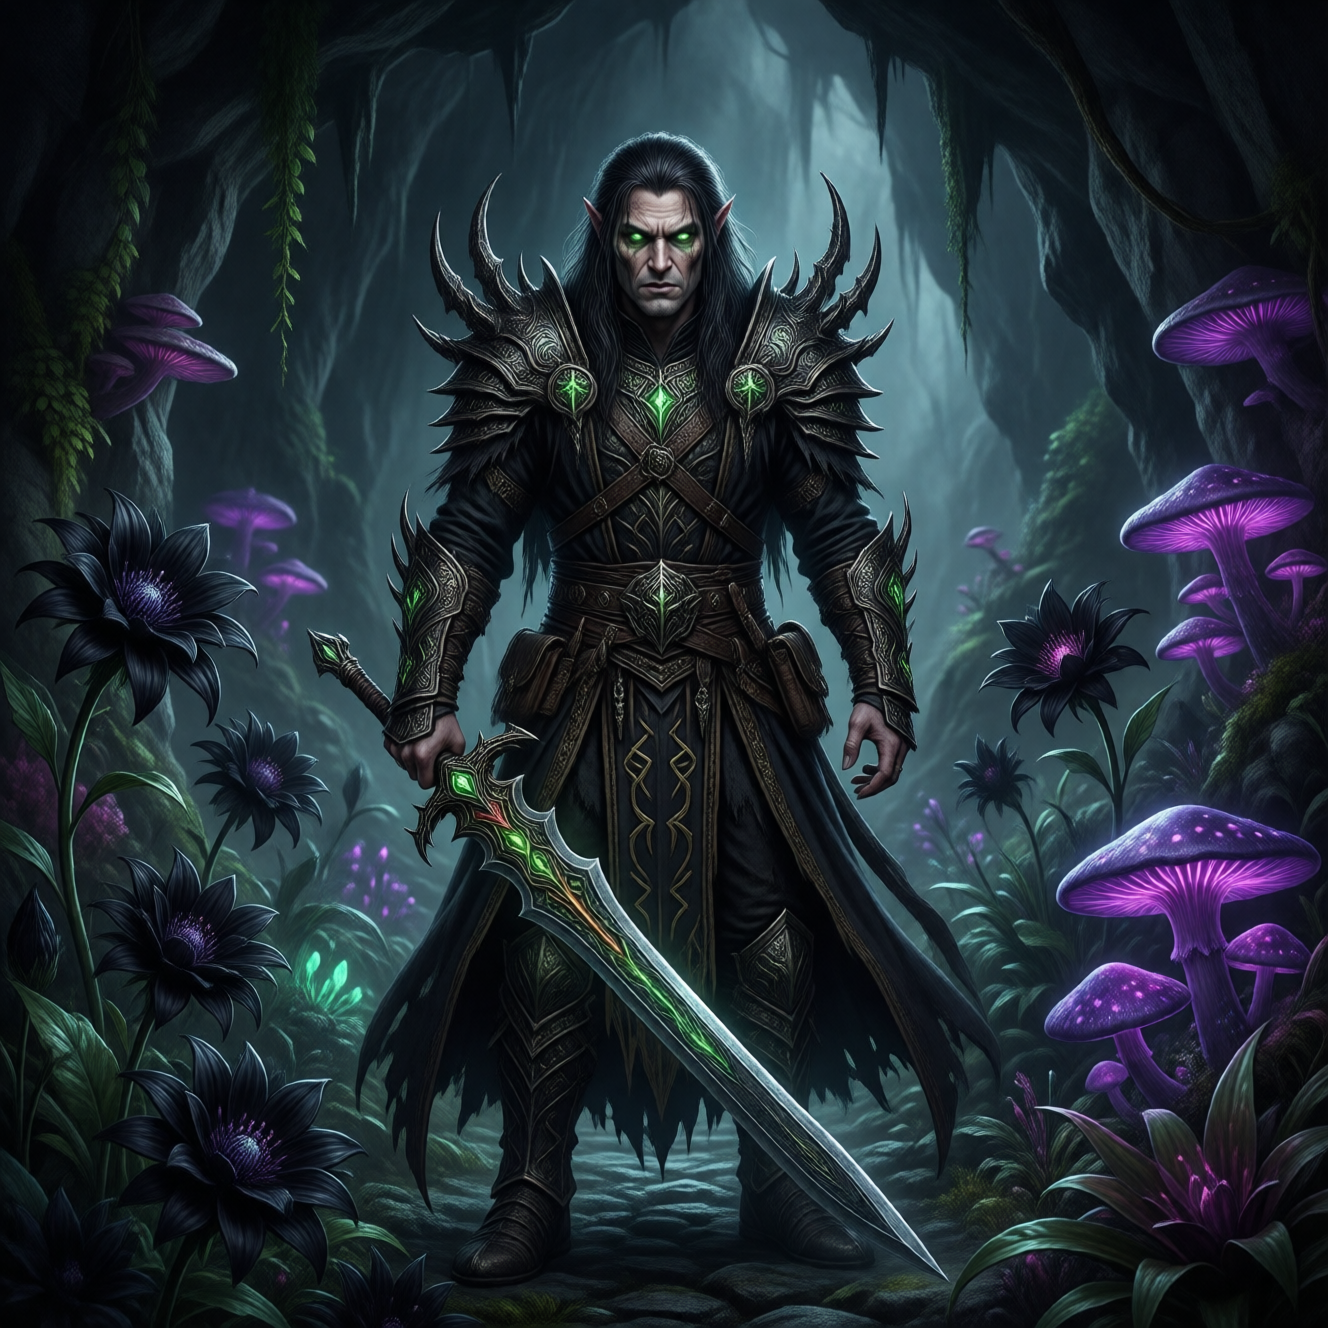
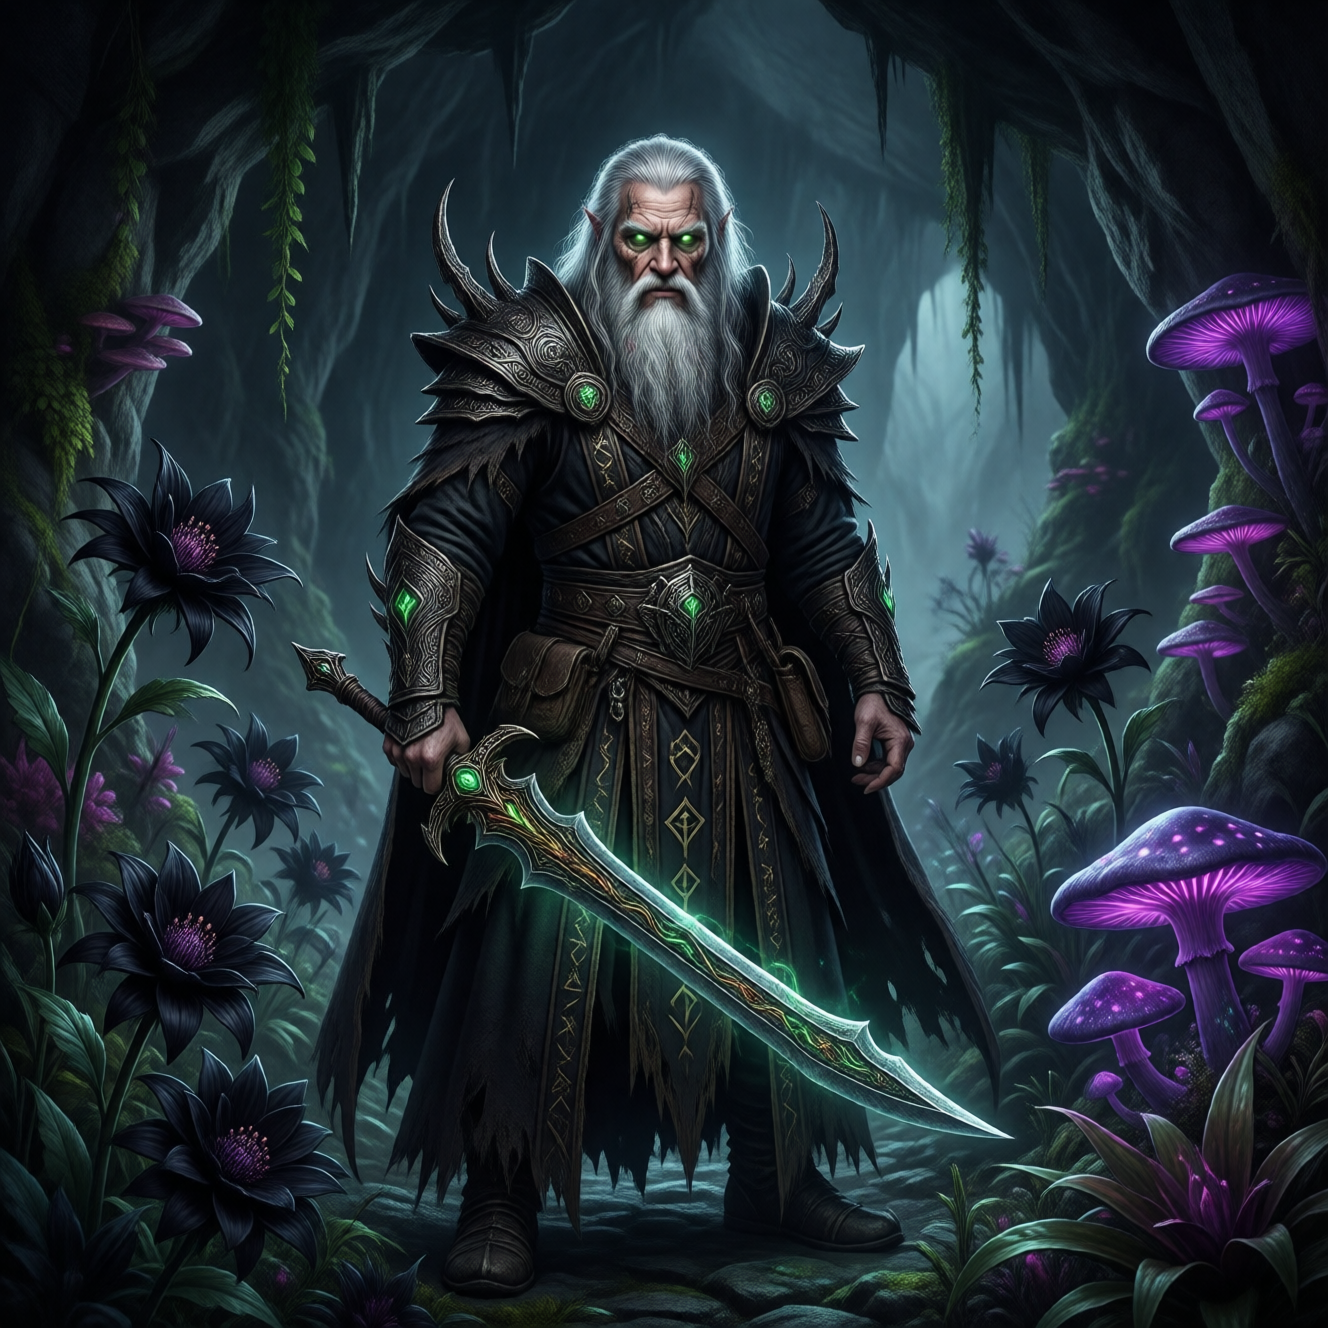
Bêta 2J x3 scénarios : remises PNJ (inventaire), entrées de donjon reformulées (bienvenus dans / 1re pluriel, hôtel/mansarde), init plan à l'ouverture avec manifeste

diff --git a/server/main.py b/server/main.py
@@ -239,12 +239,23 @@ _INTENT_VOYAGE_RE = _re_mod.compile(
 # franchissement de seuil (une simple mention du lieu ne suffit pas).
 _DONJON_LIEU_RE = _re_mod.compile(
     r"\b(catacombes?|donjons?|cryptes?|souterrains?|tunnels?|grottes?|"
-    r"cavernes?|[ée]gouts?|tombeaux?|labyrinthes?|repaire|antre)\b",
+    r"cavernes?|[ée]gouts?|tombeaux?|labyrinthes?|repaire|antre"
+    # 🔧 Bêta (Duel au pinceau) : le « donjon » du scénario est un HÔTEL
+    # particulier (mansarde, estaminet, salles de réception…) — sans ces
+    # mots, la carte du plan ne s'initialisait jamais pour ce module.
+    r"|h[ôo]tels?\s+(?:particulier|de\s|du\s)"
+    r"|m[âa]nsardes?|estaminets?)\b",
     _re_mod.IGNORECASE,
 )
 _DONJON_ENTREE_RE = _re_mod.compile(
     r"vous\s+(?:entrez\b|p[ée]n[ée]trez\b|descendez\b|franchissez\b"
     r"|vous\s+enfoncez\b|vous\s+engagez\b|dirigez\s+vers\s+l['']entr[ée]e)"
+    # 🔧 Bêta : 1re personne du pluriel (message joueur) et formes
+    # reformulées (« vous êtes les bienvenus dans l'hôtel… ») — le petit
+    # modèle reformule l'entrée sans jamais employer le bon verbe (partie
+    # réelle Duel au pinceau : « Bienvenue… dans l'hôtel de Valdenath »).
+    r"|nous\s+(?:entrons\b|p[ée]n[ée]trons\b|descendons\b|franchissons\b)"
+    r"|bienvenu\w*\s+dans\s+l['' ]"
     r"|l['']entr[ée]e\s+(?:des?\b|du\b|de\s+la\b)"
     r"|\bfranchi\w+\s+le\s+seuil\b|\bau\s+seuil\b"
     r"|descend\w*\s+dans\s+(?:la\s|le\s|les\s|l[''])"
@@ -713,7 +724,13 @@ _ITEM_ACQUISITION_RE = _re_mod.compile(
     r"\b(ramass\w*|récup\w*|récupèr\w*|trouv\w*|obtien?t|obtenir|acquis\w*"
     r"|pill\w*|prise au|je prend\w*|il prend\w*|elle prend\w*|gagne\w* un"
     r"|butin|loot\w*|rep[èe]r\w*"
-    r"|donne\w* à|offre\w* à|cède\w* à)\b",
+    r"|donne\w* à|offre\w* à|cède\w* à"
+    # 🔧 Bêta : REMISES DE PNJ (« elle tend un parchemin », « Kaelin prend
+    # les objets ») — l'inventaire n'était jamais appliqué pour ce cas
+    # (partie réelle : amulette + carte de la Magister jamais ajoutés).
+    r"|tend\w*\s+un|remet\w*\s+(?:un|une|le|la|les)"
+    r"|re[çc]oi\w*\s+(?:un|une|le|la|les)|pren\w*\s+(?:un|une|le|la|les)"
+    r"|tend\w*|remet\w*|re[çc]oi\w*)\b",
     _re_mod.IGNORECASE,
 )
 # Acquisition ANCRÉE : verbe + déterminant INDÉFINI + nom (« vous trouvez
@@ -721,7 +738,8 @@ _ITEM_ACQUISITION_RE = _re_mod.compile(
 # exclus : « vous trouvez le passage / la sortie » ne concerne pas
 # l'inventaire.
 _ACQUISITION_ANCRE_RE = _re_mod.compile(
-    r"\b(?:ramass|trouv|r[ée]cup|obtien|pill|acquis|gagne|donn|offr|c[èe]d)"
+    r"\b(?:ramass|trouv|r[ée]cup|obtien|pill|acquis|gagne|donn|offr|c[èe]d"
+    r"|tend|remet|re[çc]oi|pr[ée]sent)"
     r"[a-zà-ÿ]*\w\s+(?:une?\s|des\s|plusieurs\s|\d+\s)"
     r"[a-zà-ÿœæ]",
     _re_mod.IGNORECASE,
@@ -5702,8 +5720,24 @@ async def _handle_say(
                     _etat_ent.get("phase") != "combat"
                     and not (_etat_ent.get("donjon") or {}).get("id")
                     and not _deja_entree
-                    and _entree_donjon_narree(
-                        (text or "") + " " + (result.narration or ""))
+                    and (
+                        _entree_donjon_narree(
+                            (text or "") + " " + (result.narration or ""))
+                        # 🔧 Bêta (résidu carte) : scénario À MANIFESTE dont
+                        # l'ouverture se déroule DANS le donjon (salle 0,0 du
+                        # plan — ex. « Duel au pinceau » : le duel a lieu sur
+                        # la place des Sept Royaumes) : la prose ne narre
+                        # JAMAIS d'« entrée » (la scène démarre en place) et
+                        # le plan restait à jamais non initialisé (carte du
+                        # monde affichée pendant que la narration vivait dans
+                        # le donjon). À l'ouverture avec un manifeste, on
+                        # initialise le plan DÉTERMINISTEMENT.
+                        or (
+                            str(_etat_ent.get("phase") or "").strip().lower()
+                            in ("opening", "opening_complete", "load")
+                            and not (_etat_ent.get("histoire"))
+                        )
+                    )
                 ):
                     from .tools.cartes import _manifest_pour
                     _man = _manifest_pour(ctx, "")
